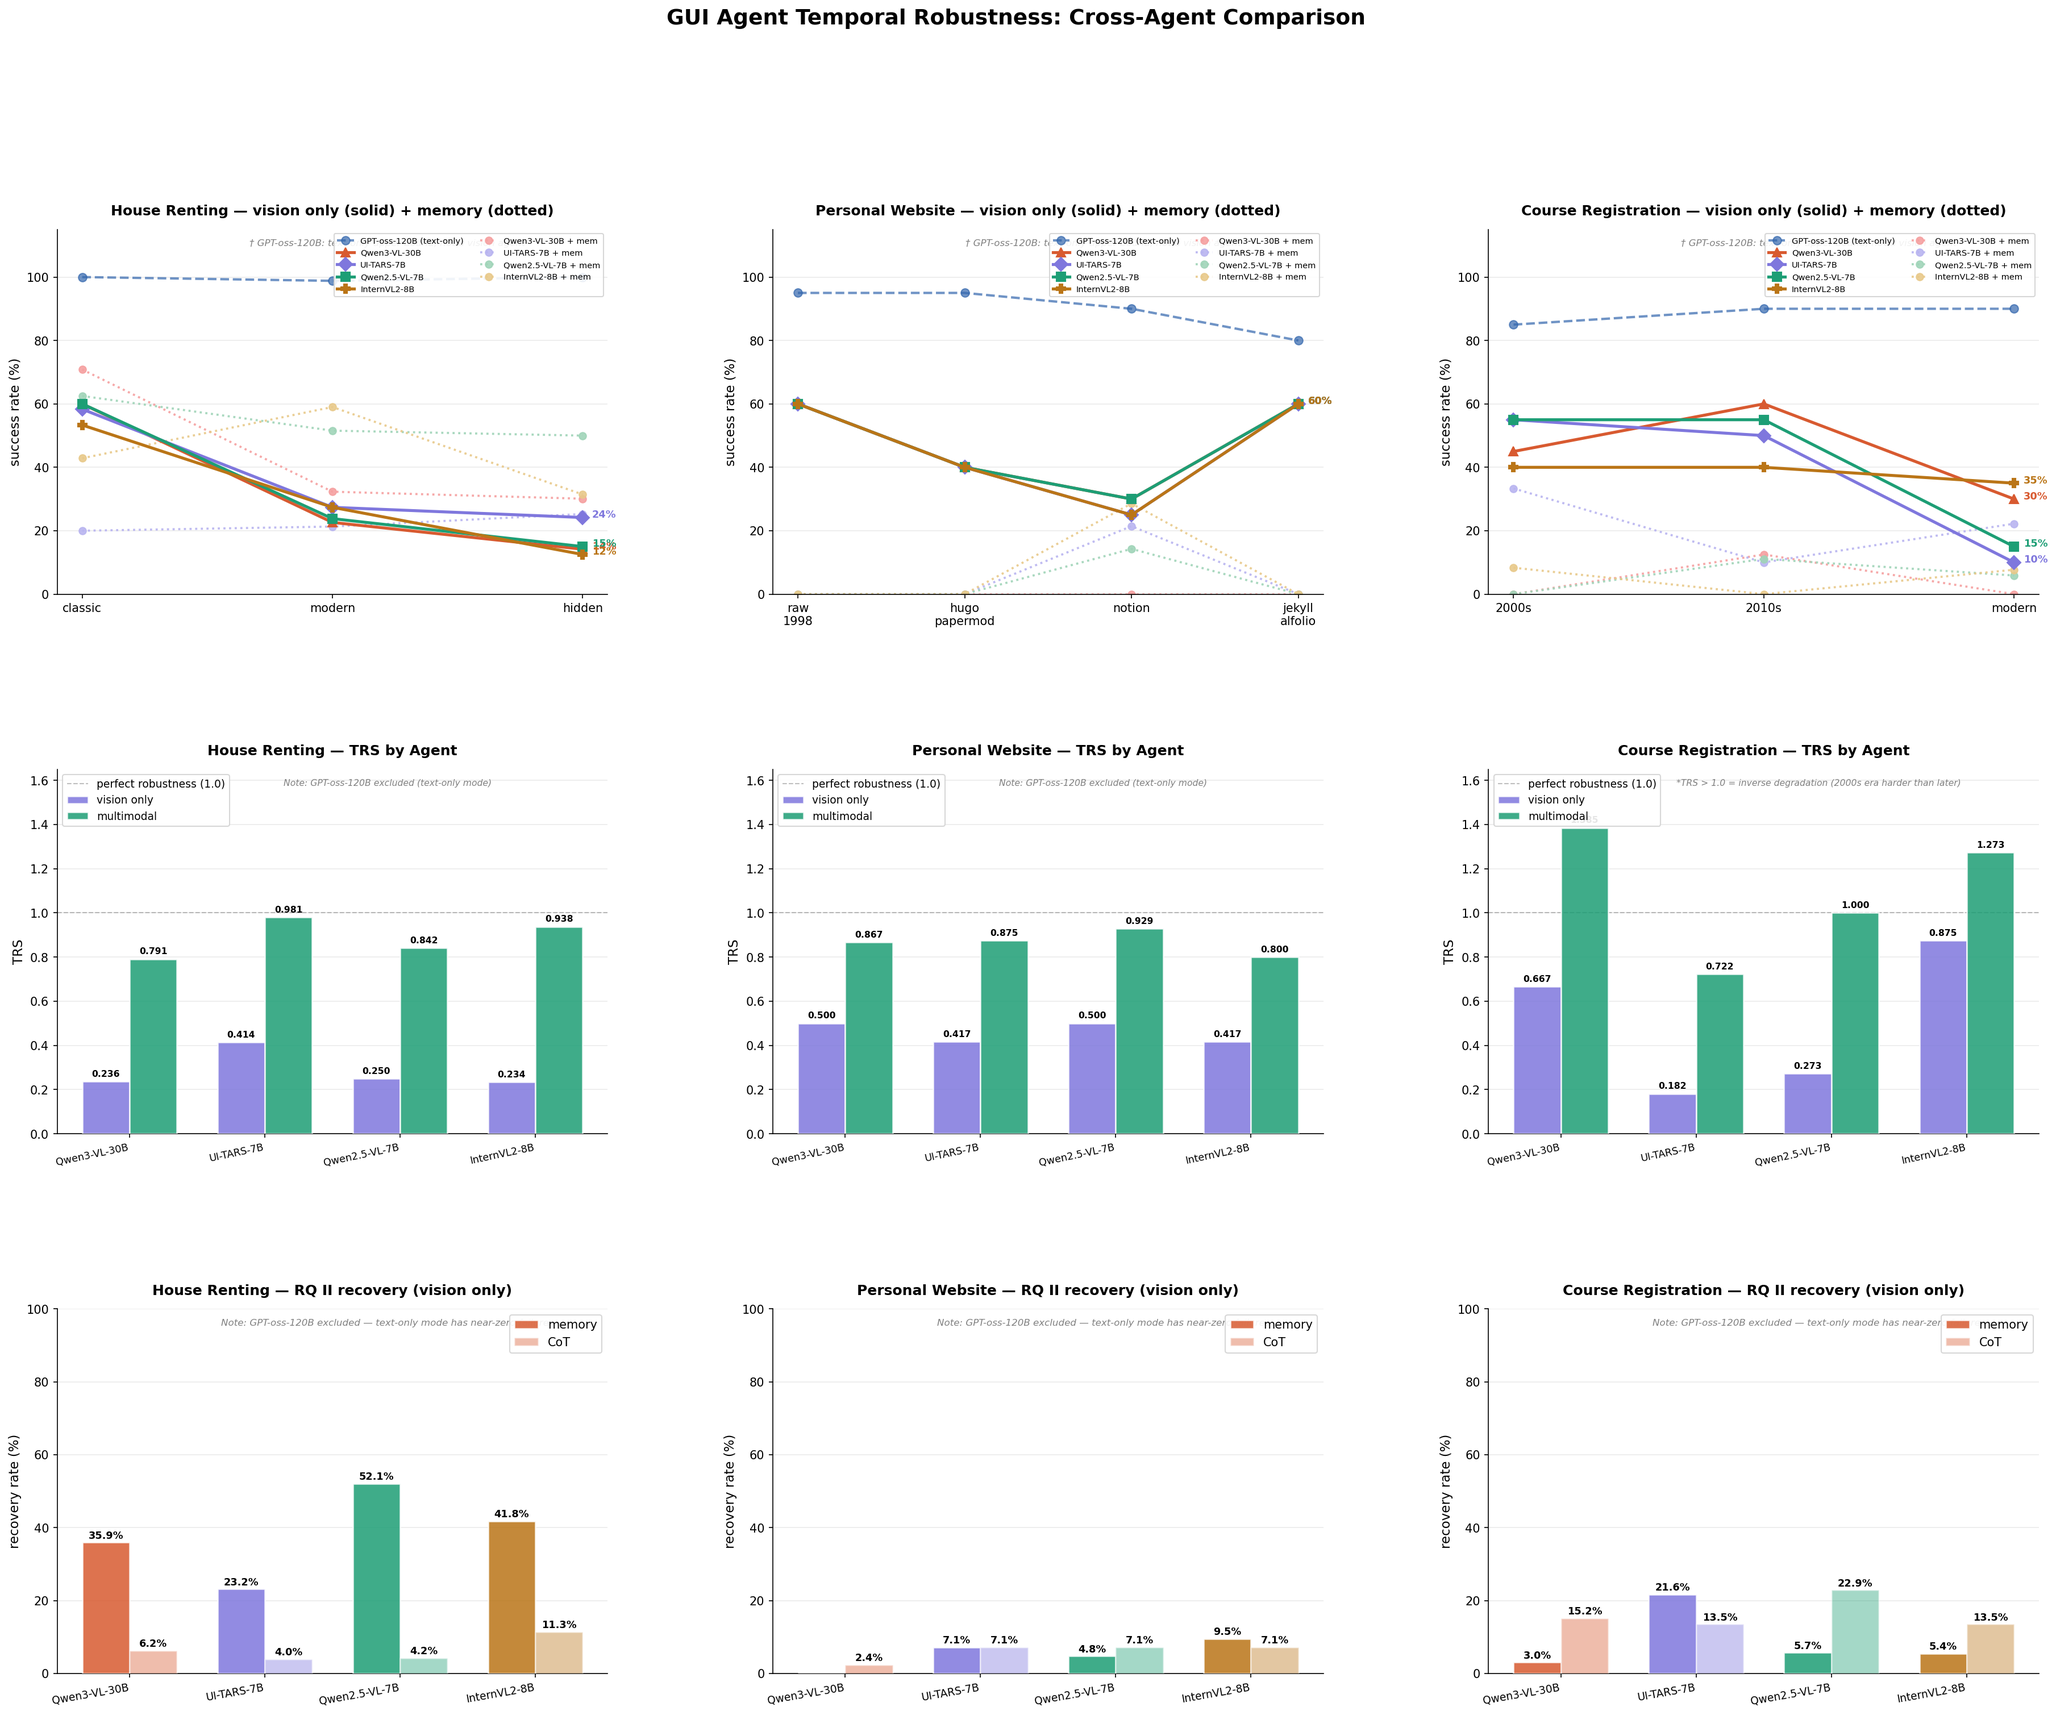
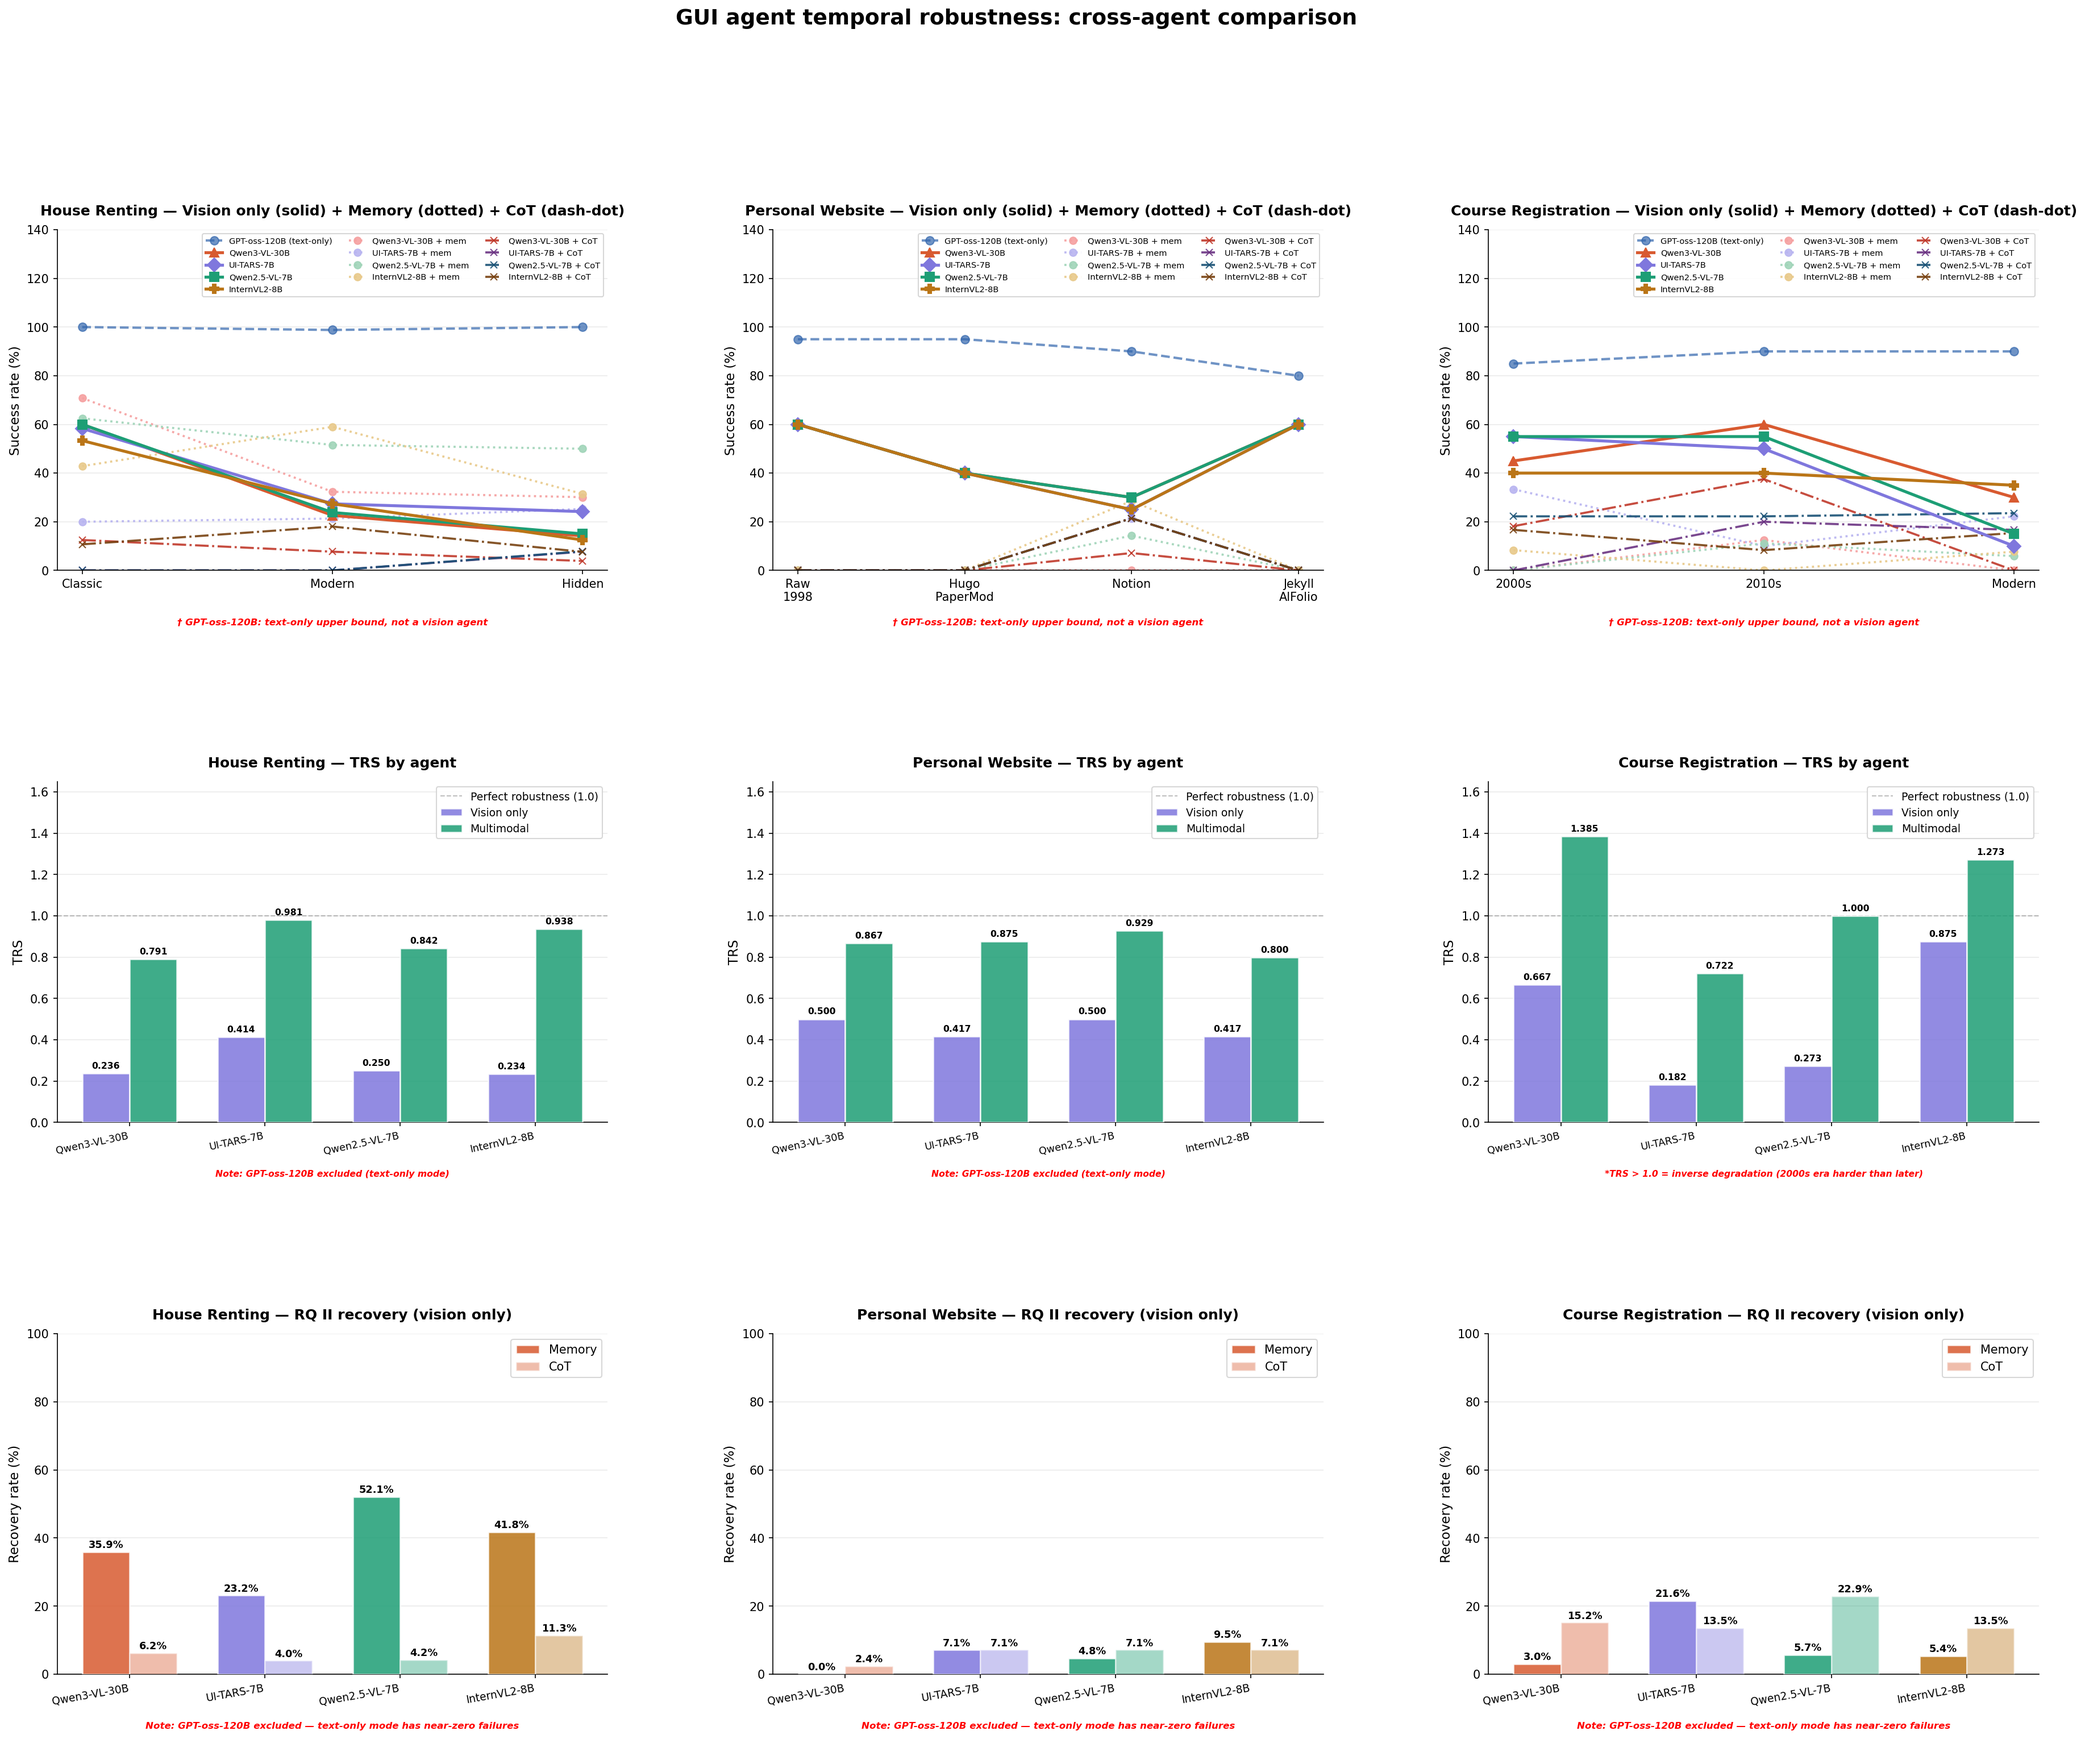
updated the benchmark viz

diff --git a/eecs_545_final_project/scripts/visualize_agent_dashboard.py b/eecs_545_final_project/scripts/visualize_agent_dashboard.py
@@ -25,21 +25,28 @@ MEMORY_COLORS = {
     "internvl": "#e8c98a",
 }
 
+COT_COLORS = {
+    "qwen_vl":  "#c0392b",
+    "uitars":   "#6c3483",
+    "qwen25":   "#1a5276",
+    "internvl": "#784212",
+}
+
 WEBSITES = {
     "house_renting": {
         "title":     "House Renting",
         "templates": ["classic", "modern", "hidden"],
-        "xlabels":   ["classic", "modern", "hidden"],
+        "xlabels":   ["Classic", "Modern", "Hidden"],
     },
     "personal_website": {
         "title":     "Personal Website",
         "templates": ["raw_html_1998", "hugo_papermod", "notion", "jekyll_alfolio"],
-        "xlabels":   ["raw\n1998", "hugo\npapermod", "notion", "jekyll\nalfolio"],
+        "xlabels":   ["Raw\n1998", "Hugo\nPaperMod", "Notion", "Jekyll\nAlFolio"],
     },
     "course_registration": {
         "title":     "Course Registration",
         "templates": ["2000s", "2010s", "modern"],
-        "xlabels":   ["2000s", "2010s", "modern"],
+        "xlabels":   ["2000s", "2010s", "Modern"],
     },
 }
 
@@ -83,10 +90,10 @@ def get_rq2_recovery_rate(website, mode, agent, strategy):
 # ============================================================
 fig = plt.figure(figsize=(30, 22))
 fig.suptitle(
-    "GUI Agent Temporal Robustness: Cross-Agent Comparison",
+    "GUI agent temporal robustness: cross-agent comparison",
     fontsize=18, fontweight="bold", y=0.998
 )
-gs = gridspec.GridSpec(3, 3, figure=fig, hspace=0.48, wspace=0.30)
+gs = gridspec.GridSpec(3, 3, figure=fig, hspace=0.62, wspace=0.30)
 
 # ============================================================
 # ROW 1: line charts per website (vision_only + memory overlay)
@@ -103,7 +110,7 @@ for col, (website_key, wconfig) in enumerate(WEBSITES.items()):
         values = [s_text["success_rates"].get(t, 0) * 100 for t in templates]
         ax.plot(x, values, color=cfg["color"], linestyle="--",
                 marker=cfg["marker"], linewidth=2, markersize=7,
-                label=f"{cfg['label']} (text-only)", alpha=0.7, zorder=3)
+        label=f"{cfg['label']} (text-only)", alpha=0.7, zorder=3)
 
     for agent_key in VISION_AGENTS:
         s = load_summary(website_key, "vision_only", agent_key)
@@ -114,10 +121,6 @@ for col, (website_key, wconfig) in enumerate(WEBSITES.items()):
         ax.plot(x, values, color=cfg["color"], linestyle="-",
                 marker=cfg["marker"], linewidth=2.5, markersize=8,
                 label=cfg["label"], zorder=3)
-        ax.annotate(f"{values[-1]:.0f}%",
-                    (len(templates) - 1, values[-1]),
-                    textcoords="offset points", xytext=(8, 0),
-                    fontsize=8.5, color=cfg["color"], fontweight="bold")
 
     for agent_key in VISION_AGENTS:
         mem_sr = get_rq2_sr(website_key, "vision_only", agent_key, "memory", templates)
@@ -128,17 +131,26 @@ for col, (website_key, wconfig) in enumerate(WEBSITES.items()):
                 marker="o", linewidth=1.8, markersize=6,
                 label=f"{AGENTS[agent_key]['label']} + mem", zorder=2, alpha=0.9)
 
+    for agent_key in VISION_AGENTS:
+        cot_sr = get_rq2_sr(website_key, "vision_only", agent_key, "cot", templates)
+        if not cot_sr:
+            continue
+        values = [cot_sr.get(t, 0) * 100 for t in templates]
+        ax.plot(x, values, color=COT_COLORS[agent_key], linestyle="-.",
+                marker="x", linewidth=1.8, markersize=6,
+                label=f"{AGENTS[agent_key]['label']} + CoT", zorder=2, alpha=0.9)
+
     ax.set_xticks(x)
     ax.set_xticklabels(xlabels, fontsize=10)
-    ax.set_ylim(0, 115)
-    ax.set_ylabel("success rate (%)", fontsize=11)
-    ax.set_title(f"{wconfig['title']} — vision only (solid) + memory (dotted)",
+    ax.set_ylim(0, 140)
+    ax.set_ylabel("Success rate (%)", fontsize=11)
+    ax.set_title(f"{wconfig['title']} — Vision only (solid) + Memory (dotted) + CoT (dash-dot)",
                  fontsize=12, fontweight="bold", pad=12)
-    ax.text(0.6, 0.95,
+    ax.text(0.5, -0.14,
             "† GPT-oss-120B: text-only upper bound, not a vision agent",
-            transform=ax.transAxes, ha="center", va="bottom",
-            fontsize=8, style="italic", color="gray")
-    ax.legend(fontsize=7, loc="upper right", ncol=2,
+            transform=ax.transAxes, ha="center", va="top",
+            fontsize=8, style="italic", color="red", fontweight="bold")
+    ax.legend(fontsize=7, loc="upper right", ncol=3,
               framealpha=0.9, edgecolor="lightgray")
     ax.grid(alpha=0.25, axis="y", zorder=0)
     ax.spines["top"].set_visible(False)
@@ -162,39 +174,37 @@ for col, (website_key, wconfig) in enumerate(WEBSITES.items()):
         trs_multi.append(min(s["trs"], 1.5) if s else 0)
 
     bars_v = ax.bar(x - width/2, trs_vision, width, color="#7f77dd",
-                    alpha=0.85, label="vision only",
+                    alpha=0.85, label="Vision only",
                     edgecolor="white", linewidth=1.2, zorder=3)
     bars_m = ax.bar(x + width/2, trs_multi, width, color="#1d9e75",
-                    alpha=0.85, label="multimodal",
+                    alpha=0.85, label="Multimodal",
                     edgecolor="white", linewidth=1.2, zorder=3)
 
     for bar, val in zip(bars_v, trs_vision):
-        if val > 0:
-            ax.text(bar.get_x() + bar.get_width() / 2,
-                    val + 0.015, f"{val:.3f}",
-                    ha="center", va="bottom", fontsize=7.5, fontweight="bold")
+        ax.text(bar.get_x() + bar.get_width() / 2,
+                val + 0.015, f"{val:.3f}",
+                ha="center", va="bottom", fontsize=7.5, fontweight="bold")
     for bar, val in zip(bars_m, trs_multi):
-        if val > 0:
-            ax.text(bar.get_x() + bar.get_width() / 2,
-                    val + 0.015, f"{val:.3f}",
-                    ha="center", va="bottom", fontsize=7.5, fontweight="bold")
+        ax.text(bar.get_x() + bar.get_width() / 2,
+                val + 0.015, f"{val:.3f}",
+                ha="center", va="bottom", fontsize=7.5, fontweight="bold")
 
     ax.axhline(y=1.0, color="gray", linestyle="--",
-               linewidth=1, alpha=0.5, label="perfect robustness (1.0)")
+               linewidth=1, alpha=0.5, label="Perfect robustness (1.0)")
     ax.set_xticks(x)
     ax.set_xticklabels([AGENTS[a]["label"] for a in VISION_AGENTS],
                        fontsize=8.5, rotation=12, ha="right")
     ax.set_ylim(0, 1.65)
     ax.set_ylabel("TRS", fontsize=11)
-    ax.set_title(f"{wconfig['title']} — TRS by Agent",
+    ax.set_title(f"{wconfig['title']} — TRS by agent",
                  fontsize=12, fontweight="bold", pad=12)
     note = "*TRS > 1.0 = inverse degradation (2000s era harder than later)" \
            if website_key == "course_registration" \
            else "Note: GPT-oss-120B excluded (text-only mode)"
-    ax.text(0.6, 0.95, note,
-            transform=ax.transAxes, ha="center", va="bottom",
-            fontsize=7.5, style="italic", color="gray")
-    ax.legend(fontsize=9, loc="upper left",
+    ax.text(0.5, -0.14, note,
+            transform=ax.transAxes, ha="center", va="top",
+            fontsize=7.5, style="italic", color="red", fontweight="bold")
+    ax.legend(fontsize=9, loc="upper right",
               framealpha=0.9, edgecolor="lightgray")
     ax.grid(alpha=0.25, axis="y", zorder=0)
     ax.spines["top"].set_visible(False)
@@ -222,33 +232,31 @@ for col, (website_key, wconfig) in enumerate(WEBSITES.items()):
     bars_mem = ax.bar(x - width/2, memory_rates, width,
                       color=colors_mem, alpha=0.85,
                       edgecolor="white", linewidth=1.2,
-                      label="memory", zorder=3)
+                      label="Memory", zorder=3)
     bars_cot = ax.bar(x + width/2, cot_rates, width,
                       color=colors_mem, alpha=0.4,
                       edgecolor="white", linewidth=1.2,
                       label="CoT", zorder=3)
 
     for bar, val in zip(bars_mem, memory_rates):
-        if val > 0:
-            ax.text(bar.get_x() + bar.get_width() / 2,
-                    val + 0.5, f"{val:.1f}%",
-                    ha="center", va="bottom", fontsize=8.5, fontweight="bold")
+        ax.text(bar.get_x() + bar.get_width() / 2,
+                val + 0.5, f"{val:.1f}%",
+                ha="center", va="bottom", fontsize=8.5, fontweight="bold")
     for bar, val in zip(bars_cot, cot_rates):
-        if val > 0:
-            ax.text(bar.get_x() + bar.get_width() / 2,
-                    val + 0.5, f"{val:.1f}%",
-                    ha="center", va="bottom", fontsize=8.5, fontweight="bold")
+        ax.text(bar.get_x() + bar.get_width() / 2,
+                val + 0.5, f"{val:.1f}%",
+                ha="center", va="bottom", fontsize=8.5, fontweight="bold")
 
     ax.set_xticks(x)
     ax.set_xticklabels(labels, fontsize=9, rotation=10, ha="right")
-    ax.set_ylabel("recovery rate (%)", fontsize=11)
+    ax.set_ylabel("Recovery rate (%)", fontsize=11)
     ax.set_ylim(0, 100)
     ax.set_title(f"{wconfig['title']} — RQ II recovery (vision only)",
                  fontsize=12, fontweight="bold", pad=12)
-    ax.text(0.6, 0.95,
+    ax.text(0.5, -0.14,
             "Note: GPT-oss-120B excluded — text-only mode has near-zero failures",
-            transform=ax.transAxes, ha="center", va="bottom",
-            fontsize=8, style="italic", color="gray")
+            transform=ax.transAxes, ha="center", va="top",
+            fontsize=8, style="italic", color="red", fontweight="bold")
     ax.legend(fontsize=10, loc="upper right",
               framealpha=0.9, edgecolor="lightgray")
     ax.grid(alpha=0.25, axis="y", zorder=0)
